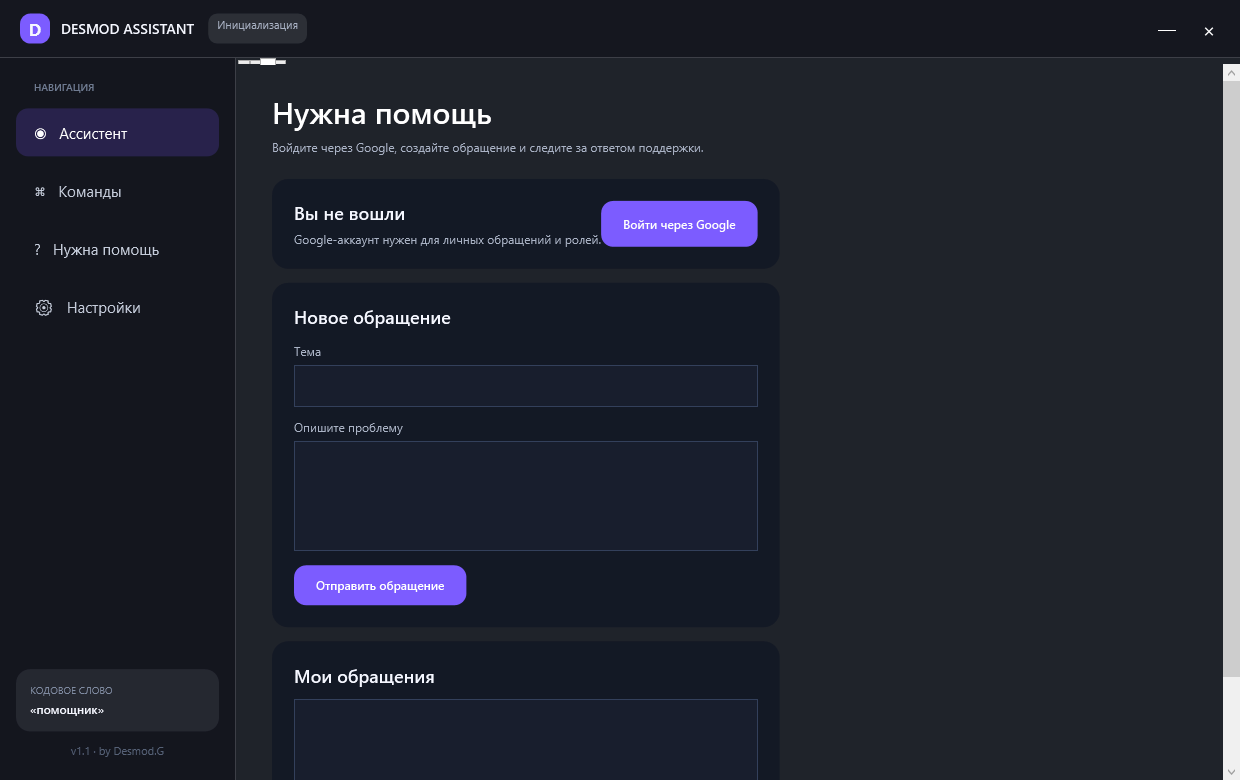
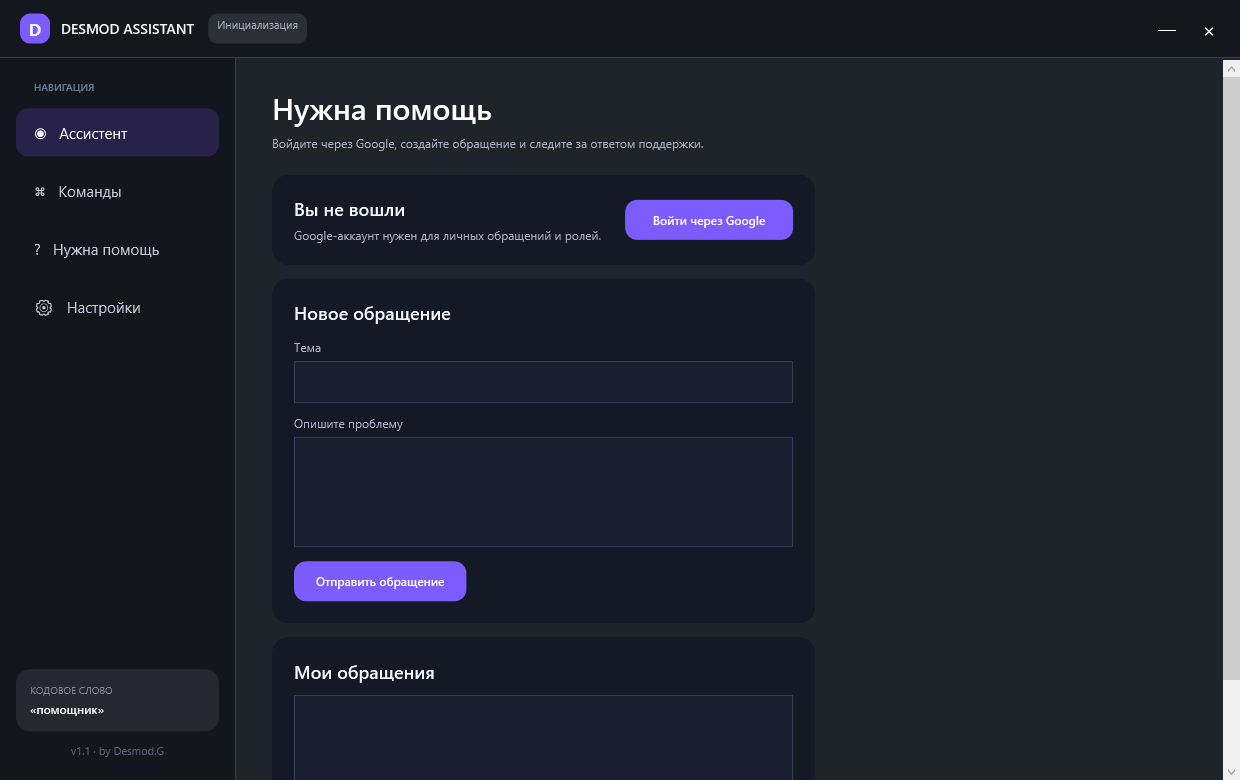
fix: execute speech commands and restyle settings

diff --git a/MainWindow.xaml b/MainWindow.xaml
@@ -18,6 +18,14 @@
   </Style>
   <Style x:Key="Field" TargetType="TextBox"><Setter Property="Foreground" Value="White"/><Setter Property="Background" Value="#181E2D"/><Setter Property="BorderBrush" Value="#33405B"/><Setter Property="BorderThickness" Value="1"/><Setter Property="Padding" Value="14,11"/><Setter Property="FontSize" Value="14"/></Style>
   <Style TargetType="TextBlock"><Setter Property="Foreground" Value="{StaticResource TextBrush}"/></Style>
+  <Style TargetType="ComboBoxItem">
+   <Setter Property="Foreground" Value="#EAF0FF"/><Setter Property="Background" Value="#111827"/><Setter Property="Padding" Value="12,9"/><Setter Property="HorizontalContentAlignment" Value="Stretch"/>
+   <Style.Triggers><Trigger Property="IsMouseOver" Value="True"><Setter Property="Background" Value="#34305B"/><Setter Property="Foreground" Value="White"/></Trigger><Trigger Property="IsSelected" Value="True"><Setter Property="Background" Value="#7C5CFF"/><Setter Property="Foreground" Value="White"/></Trigger></Style.Triggers>
+  </Style>
+  <Style TargetType="ComboBox">
+   <Setter Property="Foreground" Value="#EAF0FF"/><Setter Property="Background" Value="#151D2C"/><Setter Property="BorderBrush" Value="#3A4660"/><Setter Property="BorderThickness" Value="1"/><Setter Property="Padding" Value="12,0"/><Setter Property="Height" Value="40"/><Setter Property="Cursor" Value="Hand"/>
+   <Setter Property="Template"><Setter.Value><ControlTemplate TargetType="ComboBox"><Grid><ToggleButton x:Name="Toggle" Focusable="False" ClickMode="Press" IsChecked="{Binding IsDropDownOpen, RelativeSource={RelativeSource TemplatedParent}, Mode=TwoWay}" Background="{TemplateBinding Background}" BorderBrush="{TemplateBinding BorderBrush}" BorderThickness="{TemplateBinding BorderThickness}"><ToggleButton.Template><ControlTemplate TargetType="ToggleButton"><Border x:Name="ToggleBorder" Background="{TemplateBinding Background}" BorderBrush="{TemplateBinding BorderBrush}" BorderThickness="{TemplateBinding BorderThickness}" CornerRadius="8"><Grid Margin="12,0"><Grid.ColumnDefinitions><ColumnDefinition/><ColumnDefinition Width="Auto"/></Grid.ColumnDefinitions><ContentPresenter VerticalAlignment="Center" Content="{Binding SelectionBoxItem, RelativeSource={RelativeSource AncestorType=ComboBox}}" TextElement.Foreground="#EAF0FF"/><TextBlock Grid.Column="1" Text="▾" Foreground="#AAB3C5" VerticalAlignment="Center" Margin="12,0,0,0"/></Grid></Border><ControlTemplate.Triggers><Trigger Property="IsMouseOver" Value="True"><Setter TargetName="ToggleBorder" Property="BorderBrush" Value="#7C5CFF"/></Trigger></ControlTemplate.Triggers></ControlTemplate></ToggleButton.Template></ToggleButton><Popup x:Name="Popup" Placement="Bottom" IsOpen="{TemplateBinding IsDropDownOpen}" AllowsTransparency="True" Focusable="False" PopupAnimation="Fade"><Border MinWidth="{Binding ActualWidth, RelativeSource={RelativeSource TemplatedParent}}" MaxHeight="300" Background="#111827" BorderBrush="#46536D" BorderThickness="1" CornerRadius="8" Margin="0,4,0,0"><ScrollViewer><ItemsPresenter/></ScrollViewer></Border></Popup></Grid><ControlTemplate.Triggers><Trigger Property="HasItems" Value="False"><Setter TargetName="Popup" Property="MinHeight" Value="40"/></Trigger><Trigger Property="IsEnabled" Value="False"><Setter Property="Opacity" Value="0.5"/></Trigger></ControlTemplate.Triggers></ControlTemplate></Setter.Value></Setter>
+  </Style>
   <Style TargetType="CheckBox"><Setter Property="Foreground" Value="{StaticResource TextBrush}"/><Setter Property="FontSize" Value="14"/><Setter Property="Margin" Value="0,7"/></Style>
  </Window.Resources>
  <Grid x:Name="RootGrid" Opacity="0">
@@ -34,11 +42,11 @@
    </Border>
    <Grid Grid.Row="1"><Grid.ColumnDefinitions><ColumnDefinition Width="236"/><ColumnDefinition Width="*"/></Grid.ColumnDefinitions>
     <Border Background="#980B0E18" BorderBrush="#22FFFFFF" BorderThickness="0,0,1,0"><Grid Margin="16,22"><Grid.RowDefinitions><RowDefinition/><RowDefinition Height="Auto"/></Grid.RowDefinitions><StackPanel><TextBlock Text="НАВИГАЦИЯ" FontSize="10" Foreground="#6F7B91" FontWeight="SemiBold" Margin="18,0,0,10"/><Button x:Name="HomeNav" Style="{StaticResource NavButton}" Tag="Active" Content="◉   Ассистент" Click="HomeNav_OnClick"/><Button x:Name="CommandsNav" Style="{StaticResource NavButton}" Content="⌘   Команды" Click="CommandsNav_OnClick"/><Button x:Name="SupportNav" Style="{StaticResource NavButton}" Content="?   Нужна помощь" Click="SupportNav_OnClick"/><Button x:Name="SettingsNav" Style="{StaticResource NavButton}" Content="⚙   Настройки" Click="SettingsNav_OnClick"/></StackPanel><StackPanel Grid.Row="1"><Border Background="#14FFFFFF" CornerRadius="14" Padding="14" Margin="0,0,0,12"><StackPanel><TextBlock Text="КОДОВОЕ СЛОВО" FontSize="10" Foreground="#7F8BA1"/><TextBlock x:Name="WakeWordPreview" Text="«Помощник»" Margin="0,5,0,0" FontWeight="SemiBold"/></StackPanel></Border><TextBlock Text="v1.1 · by Desmod.G" Foreground="#566176" FontSize="11" HorizontalAlignment="Center"/></StackPanel></Grid></Border>
-    <TabControl x:Name="MainTabs" Grid.Column="1" SelectedIndex="0" Background="Transparent" Foreground="{StaticResource TextBrush}" BorderThickness="0" Padding="0"><TabControl.ItemsPanel><ItemsPanelTemplate><StackPanel Height="0"/></ItemsPanelTemplate></TabControl.ItemsPanel>
+    <TabControl x:Name="MainTabs" Grid.Column="1" SelectedIndex="0" Background="Transparent" Foreground="{StaticResource TextBrush}" BorderThickness="0" Padding="0"><TabControl.ItemsPanel><ItemsPanelTemplate><StackPanel Height="0"/></ItemsPanelTemplate></TabControl.ItemsPanel><TabControl.ItemContainerStyle><Style TargetType="TabItem"><Setter Property="Width" Value="0"/><Setter Property="Height" Value="0"/><Setter Property="Padding" Value="0"/><Setter Property="Margin" Value="0"/><Setter Property="Opacity" Value="0"/><Setter Property="IsTabStop" Value="False"/></Style></TabControl.ItemContainerStyle>
      <TabItem><Grid Margin="36,28"><Grid.RowDefinitions><RowDefinition Height="Auto"/><RowDefinition/><RowDefinition Height="Auto"/></Grid.RowDefinitions><StackPanel><TextBlock Text="Добро пожаловать" Foreground="{StaticResource TextBrush}" FontSize="30" FontWeight="SemiBold"/><TextBlock Text="Говорите свободно — ассистент слушает постоянно и показывает распознанный текст ниже." Foreground="{StaticResource MutedBrush}" FontSize="15" Margin="0,7,0,0"/></StackPanel><Grid Grid.Row="1"><StackPanel HorizontalAlignment="Center" VerticalAlignment="Center"><Grid Width="240" Height="240"><Ellipse Fill="#127C5CFF" Stroke="#447C5CFF" StrokeThickness="2"/><Ellipse Width="164" Height="164" Fill="#277C5CFF" Stroke="#887C5CFF" StrokeThickness="2"/><Ellipse x:Name="AssistantOrb" Width="98" Height="98" Fill="{StaticResource AccentBrush}" IsHitTestVisible="False"/><TextBlock Text="D" Foreground="White" FontSize="40" FontWeight="Bold" HorizontalAlignment="Center" VerticalAlignment="Center" IsHitTestVisible="False"/></Grid><TextBlock x:Name="ListeningTitle" Text="Подключаю микрофон" Foreground="{StaticResource TextBrush}" HorizontalAlignment="Center" FontSize="20" FontWeight="SemiBold" Margin="0,20,0,0"/><TextBlock x:Name="TranscriptText" Text="После заставки микрофон включится автоматически" TextWrapping="Wrap" TextAlignment="Center" Width="560" Foreground="{StaticResource MutedBrush}" FontSize="14" Margin="0,8,0,0"/></StackPanel></Grid><Border Grid.Row="2" Background="#E5101522" BorderBrush="#27344C" BorderThickness="1" CornerRadius="16" Padding="8"><Grid><Grid.ColumnDefinitions><ColumnDefinition/><ColumnDefinition Width="Auto"/></Grid.ColumnDefinitions><TextBox x:Name="CommandInput" Background="Transparent" BorderThickness="0" Foreground="White" Padding="12,10" FontSize="15" KeyDown="CommandInput_OnKeyDown" ToolTip="Здесь появляется ваша речь; команду также можно ввести вручную"/><Button Grid.Column="1" Style="{StaticResource PrimaryButton}" Content="Выполнить" Click="ExecuteCommand_OnClick"/></Grid></Border></Grid></TabItem>
      <TabItem><ScrollViewer VerticalScrollBarVisibility="Auto"><StackPanel Margin="36,28"><TextBlock Text="Команды" FontSize="30" FontWeight="SemiBold"/><TextBlock Text="Примеры фраз, которые ассистент понимает без подключения ИИ." Foreground="{StaticResource MutedBrush}" Margin="0,7,0,24"/><UniformGrid Columns="2"><Border Background="{StaticResource PanelBrush}" CornerRadius="16" Padding="20" Margin="0,0,10,10"><StackPanel><TextBlock Text="Видео и сайты" FontWeight="SemiBold" FontSize="17"/><TextBlock Text="«Помощник, открой YouTube»&#x0a;«Открой сайт github.com»&#x0a;«Найди канал Димы Масленникова»" Foreground="{StaticResource MutedBrush}" Margin="0,10,0,0" LineHeight="24"/></StackPanel></Border><Border Background="{StaticResource PanelBrush}" CornerRadius="16" Padding="20" Margin="10,0,0,10"><StackPanel><TextBlock Text="Игры и приложения" FontWeight="SemiBold" FontSize="17"/><TextBlock Text="«Помощник, открой Доту»&#x0a;«Запусти Steam»&#x0a;«Открой CapCut / TLauncher»" Foreground="{StaticResource MutedBrush}" Margin="0,10,0,0" LineHeight="24"/></StackPanel></Border><Border Background="{StaticResource PanelBrush}" CornerRadius="16" Padding="20" Margin="0,10,10,0"><StackPanel><TextBlock Text="Экран" FontWeight="SemiBold" FontSize="17"/><TextBlock Text="«Сделай скриншот»&#x0a;«Запусти запись экрана»&#x0a;NVIDIA: Alt + F9" Foreground="{StaticResource MutedBrush}" Margin="0,10,0,0" LineHeight="24"/></StackPanel></Border><Border Background="{StaticResource PanelBrush}" CornerRadius="16" Padding="20" Margin="10,10,0,0"><StackPanel><TextBlock Text="Свободный диалог" FontWeight="SemiBold" FontSize="17"/><TextBlock Text="Подключите API-ключ во вкладке настроек, чтобы задавать вопросы свободными фразами." Foreground="{StaticResource MutedBrush}" Margin="0,10,0,0" TextWrapping="Wrap" LineHeight="24"/></StackPanel></Border></UniformGrid></StackPanel></ScrollViewer></TabItem>
      <TabItem><ScrollViewer VerticalScrollBarVisibility="Auto"><StackPanel Margin="36,28" MaxWidth="900" HorizontalAlignment="Left" TextElement.Foreground="White"><TextBlock Text="Нужна помощь" Foreground="White" FontSize="30" FontWeight="SemiBold"/><TextBlock Text="Войдите через Google, создайте обращение и следите за ответом поддержки." Foreground="{StaticResource MutedBrush}" Margin="0,7,0,24"/>
-      <Border Background="{StaticResource PanelBrush}" CornerRadius="16" Padding="22" Margin="0,0,0,14"><Grid><Grid.ColumnDefinitions><ColumnDefinition/><ColumnDefinition Width="Auto"/></Grid.ColumnDefinitions><StackPanel><TextBlock x:Name="AccountTitle" Text="Вы не вошли" FontSize="18" FontWeight="SemiBold"/><TextBlock x:Name="AccountDetails" Text="Google-аккаунт нужен для личных обращений и ролей." Foreground="{StaticResource MutedBrush}" Margin="0,6,0,0"/></StackPanel><Button x:Name="GoogleLoginButton" Grid.Column="1" Content="Войти через Google" Style="{StaticResource PrimaryButton}" Click="GoogleLogin_OnClick"/></Grid></Border>
+      <Border Background="{StaticResource PanelBrush}" CornerRadius="16" Padding="22" Margin="0,0,0,14"><Grid><Grid.ColumnDefinitions><ColumnDefinition MinWidth="280"/><ColumnDefinition Width="Auto"/></Grid.ColumnDefinitions><StackPanel Margin="0,0,24,0"><TextBlock x:Name="AccountTitle" Text="Вы не вошли" FontSize="18" FontWeight="SemiBold"/><TextBlock x:Name="AccountDetails" Text="Google-аккаунт нужен для личных обращений и ролей." Foreground="{StaticResource MutedBrush}" Margin="0,6,0,0" TextWrapping="Wrap"/></StackPanel><Button x:Name="GoogleLoginButton" Grid.Column="1" Content="Войти через Google" Style="{StaticResource PrimaryButton}" MinWidth="168" VerticalAlignment="Center" Click="GoogleLogin_OnClick"/></Grid></Border>
       <Border Background="{StaticResource PanelBrush}" CornerRadius="16" Padding="22" Margin="0,0,0,14"><StackPanel><TextBlock Text="Новое обращение" FontSize="18" FontWeight="SemiBold"/><TextBlock Text="Тема" Foreground="{StaticResource MutedBrush}" Margin="0,14,0,6"/><TextBox x:Name="TicketSubjectInput" Style="{StaticResource Field}"/><TextBlock Text="Опишите проблему" Foreground="{StaticResource MutedBrush}" Margin="0,12,0,6"/><TextBox x:Name="TicketDescriptionInput" Style="{StaticResource Field}" Height="110" AcceptsReturn="True" TextWrapping="Wrap" VerticalScrollBarVisibility="Auto"/><Button Content="Отправить обращение" Style="{StaticResource PrimaryButton}" HorizontalAlignment="Left" Margin="0,14,0,0" Click="SubmitTicket_OnClick"/></StackPanel></Border>
       <Border Background="{StaticResource PanelBrush}" CornerRadius="16" Padding="22" Margin="0,0,0,14"><StackPanel><TextBlock Text="Мои обращения" FontSize="18" FontWeight="SemiBold"/><ListBox x:Name="TicketsList" Margin="0,12,0,0" MinHeight="120" Background="#181E2D" Foreground="White" BorderBrush="#33405B"/></StackPanel></Border>
       <Border x:Name="AdminPanel" Background="#E3191730" BorderBrush="#667C5CFF" BorderThickness="1" CornerRadius="16" Padding="22" Margin="0,0,0,30" Visibility="Collapsed"><StackPanel><TextBlock Text="Панель управления" FontSize="20" FontWeight="SemiBold"/><TextBlock Text="Роли пользователей и обработка обращений." Foreground="{StaticResource MutedBrush}" Margin="0,6,0,14"/><TextBlock Text="Email пользователя" Foreground="{StaticResource MutedBrush}"/><TextBox x:Name="RoleEmailInput" Style="{StaticResource Field}" Margin="0,6,0,10"/><StackPanel Orientation="Horizontal"><Button Content="Выдать модератора" Style="{StaticResource PrimaryButton}" Margin="0,0,10,0" Click="GrantModerator_OnClick"/><Button Content="Выдать администратора" Style="{StaticResource PrimaryButton}" Click="GrantAdmin_OnClick"/></StackPanel><Separator Margin="0,20" Background="#33405B"/><TextBlock Text="Ответ на выбранное обращение" Foreground="{StaticResource MutedBrush}"/><TextBox x:Name="ModeratorReplyInput" Style="{StaticResource Field}" Height="90" Margin="0,6,0,10" AcceptsReturn="True" TextWrapping="Wrap"/><StackPanel Orientation="Horizontal"><Button Content="Отправить ответ" Style="{StaticResource PrimaryButton}" Margin="0,0,10,0" Click="ReplyTicket_OnClick"/><Button Content="Закрыть обращение" Style="{StaticResource PrimaryButton}" Click="CloseTicket_OnClick"/></StackPanel></StackPanel></Border>

diff --git a/MainWindow.xaml.cs b/MainWindow.xaml.cs
@@ -100,6 +100,8 @@ public partial class MainWindow : Window
         RootGrid.Opacity = 1;
         Dispatcher.BeginInvoke(async () =>
         {
+            if (args.Any(value => value.Equals("--open-microphone-dropdown", StringComparison.OrdinalIgnoreCase)))
+                MicrophoneCombo.IsDropDownOpen = true;
             await Task.Delay(600);
             UpdateLayout();
             var width = Math.Max(1, (int)ActualWidth);
@@ -182,9 +184,9 @@ public partial class MainWindow : Window
             CommandInput.CaretIndex = CommandInput.Text.Length;
             var wakeWord = _settings.WakeWord.Trim();
             var index = text.IndexOf(wakeWord, StringComparison.OrdinalIgnoreCase);
-            if (index < 0) return;
-
-            var command = text.Remove(index, wakeWord.Length).Trim(' ', ',', '.', '!', '?', ':', '-');
+            var command = index >= 0
+                ? text.Remove(index, wakeWord.Length).Trim(' ', ',', '.', '!', '?', ':', '-')
+                : text.Trim(' ', ',', '.', '!', '?', ':', '-');
             if (string.IsNullOrWhiteSpace(command))
             {
                 ListeningTitle.Text = "Слушаю команду";
@@ -388,6 +390,15 @@ public partial class MainWindow : Window
     {
         try
         {
+            if (string.IsNullOrWhiteSpace(_settings.GoogleClientId))
+            {
+                AccountTitle.Text = "Требуется настройка Google";
+                AccountDetails.Text = "Открыл страницу создания OAuth Client ID. После создания вставьте его в настройках приложения.";
+                System.Diagnostics.Process.Start(new System.Diagnostics.ProcessStartInfo("https://console.cloud.google.com/apis/credentials") { UseShellExecute = true });
+                Navigate(3, SettingsNav);
+                GoogleClientIdInput.Focus();
+                return;
+            }
             GoogleLoginButton.IsEnabled = false;
             AccountTitle.Text = "Ожидаю вход Google…";
             _currentUser = await _googleAuthService.SignInAsync(_settings.GoogleClientId, _supportService.ResolveRole);

diff --git a/CHANGELOG.md b/CHANGELOG.md
@@ -1,5 +1,14 @@
 # История изменений
 
+## 1.1.1 — 2026-10-28
+
+- Голосовые команды выполняются автоматически и больше не требуют обязательного кодового слова.
+- Исправлен контраст всех выпадающих списков настроек.
+- Переработаны тёмные стили выбранного, наведённого и раскрытого пункта.
+- Исправлена компоновка блока Google-входа.
+- При отсутствии OAuth Client ID кнопка открывает страницу настройки Google и переводит к нужному полю.
+- Убраны системные маркеры скрытых вкладок.
+
 ## 1.1.0 — 2026-10-28
 
 - Русское офлайн-распознавание переведено на Vosk.

diff --git a/README.md b/README.md
@@ -7,6 +7,7 @@
 ## Возможности
 
 - постоянное локальное распознавание русской речи через Vosk;
+- автоматическое выполнение завершённой голосовой фразы без обязательного кодового слова;
 - выбор любого доступного микрофона и индикатор уровня сигнала;
 - живая расшифровка прямо в строке ручного ввода;
 - настраиваемое кодовое слово, по умолчанию — «Помощник»;
